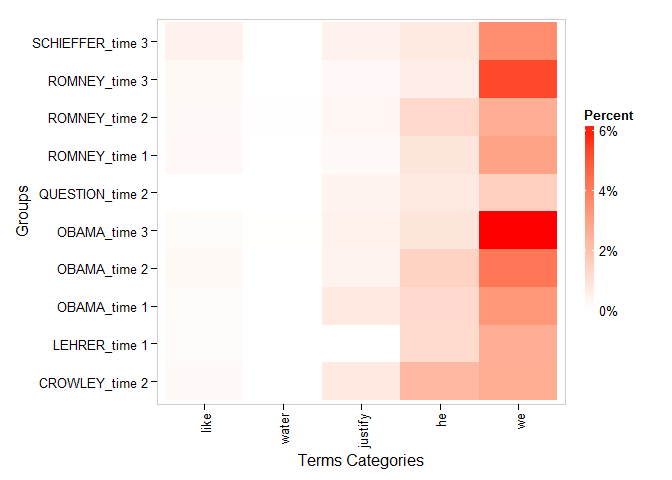
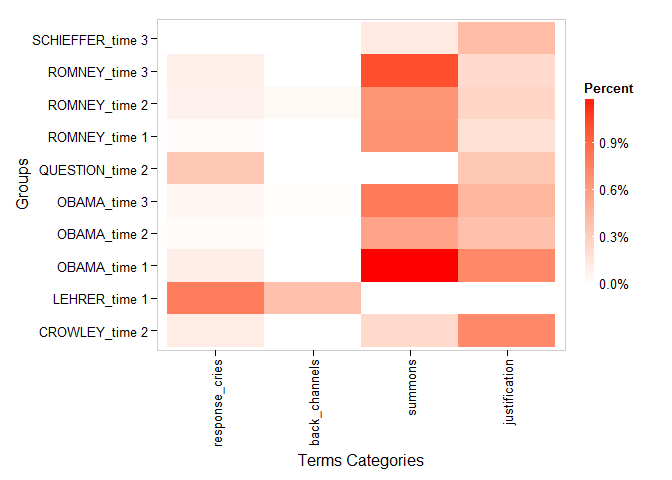
format change to readme

diff --git a/README.md b/README.md
@@ -29,8 +29,8 @@ Table of Contents
 -   [Installation](#installation)
 -   [Contact](#contact)
     -   [Examples](#examples)
-        -   [Print Method](#print-method)
-        -   [Plot Method](#plot-method)
+        -   [Printing](#printing)
+        -   [Plotting](#plotting)
     -   [Building an Expert Rules, Regex Classifier Model](#building-an-expert-rules-regex-classifier-model)
         -   [Load the Tools/Data](#load-the-toolsdata)
         -   [View Most Used Words](#view-most-used-words)
@@ -79,7 +79,10 @@ The following examples demonstrate some of the functionality of
         justification = "because"
     )
 
-    with(presidential_debates_2012, term_count(dialogue, list(person, time), discoure_markers))
+    markers <- with(presidential_debates_2012, 
+        term_count(dialogue, list(person, time), discoure_markers)
+    )
+    markers
 
     ## Coverage: 100% 
     ## Source: local data frame [10 x 7]
@@ -98,46 +101,47 @@ The following examples demonstrate some of the functionality of
     ## 10 SCHIEFFER time 3    1445              0             0   2(.14%)
     ## Variables not shown: justification (chr)
 
-### Print Method
+### Printing
 
     print(markers, pretty = FALSE)
 
     ## Coverage: 100% 
-    ## Source: local data frame [10 x 8]
+    ## Source: local data frame [10 x 7]
     ## 
-    ##       person   time n.words  like water justify    he    we
-    ##       (fctr) (fctr)   (int) (int) (int)   (int) (int) (int)
-    ## 1      OBAMA time 1    3599     5     0      26    43   120
-    ## 2      OBAMA time 2    7477    16     0      29   109   318
-    ## 3      OBAMA time 3    7243    10     1      33    59   451
-    ## 4     ROMNEY time 1    4085     9     0       8    34   121
-    ## 5     ROMNEY time 2    7536    12     4      20    93   199
-    ## 6     ROMNEY time 3    8303    18     0      19    46   447
-    ## 7    CROWLEY time 2    1672     3     0      12    38    44
-    ## 8     LEHRER time 1     765     1     0       0     9    20
-    ## 9   QUESTION time 2     583     0     0       2     4     9
-    ## 10 SCHIEFFER time 3    1445     6     0       6    10    52
+    ##       person   time n.words response_cries back_channels summons
+    ##       (fctr) (fctr)   (int)          (int)         (int)   (int)
+    ## 1      OBAMA time 1    3599              4             0      43
+    ## 2      OBAMA time 2    7477              2             0      42
+    ## 3      OBAMA time 3    7243              4             1      58
+    ## 4     ROMNEY time 1    4085              1             0      27
+    ## 5     ROMNEY time 2    7536              6             3      49
+    ## 6     ROMNEY time 3    8303              8             0      84
+    ## 7    CROWLEY time 2    1672              2             0       4
+    ## 8     LEHRER time 1     765              6             3       0
+    ## 9   QUESTION time 2     583              2             0       0
+    ## 10 SCHIEFFER time 3    1445              0             0       2
+    ## Variables not shown: justification (int)
 
     print(markers, zero.replace = "_")
 
     ## Coverage: 100% 
-    ## Source: local data frame [10 x 8]
+    ## Source: local data frame [10 x 7]
     ## 
-    ##       person   time n.words     like   water  justify         he
-    ##       (fctr) (fctr)   (int)    (chr)   (chr)    (chr)      (chr)
-    ## 1      OBAMA time 1    3599  5(.14%)       _ 26(.72%)  43(1.19%)
-    ## 2      OBAMA time 2    7477 16(.21%)       _ 29(.39%) 109(1.46%)
-    ## 3      OBAMA time 3    7243 10(.14%) 1(.01%) 33(.46%)   59(.81%)
-    ## 4     ROMNEY time 1    4085  9(.22%)       _  8(.20%)   34(.83%)
-    ## 5     ROMNEY time 2    7536 12(.16%) 4(.05%) 20(.27%)  93(1.23%)
-    ## 6     ROMNEY time 3    8303 18(.22%)       _ 19(.23%)   46(.55%)
-    ## 7    CROWLEY time 2    1672  3(.18%)       _ 12(.72%)  38(2.27%)
-    ## 8     LEHRER time 1     765  1(.13%)       _        _   9(1.18%)
-    ## 9   QUESTION time 2     583        _       _  2(.34%)    4(.69%)
-    ## 10 SCHIEFFER time 3    1445  6(.42%)       _  6(.42%)   10(.69%)
-    ## Variables not shown: we (chr)
+    ##       person   time n.words response_cries back_channels   summons
+    ##       (fctr) (fctr)   (int)          (chr)         (chr)     (chr)
+    ## 1      OBAMA time 1    3599        4(.11%)             _ 43(1.19%)
+    ## 2      OBAMA time 2    7477        2(.03%)             _  42(.56%)
+    ## 3      OBAMA time 3    7243        4(.06%)       1(.01%)  58(.80%)
+    ## 4     ROMNEY time 1    4085        1(.02%)             _  27(.66%)
+    ## 5     ROMNEY time 2    7536        6(.08%)       3(.04%)  49(.65%)
+    ## 6     ROMNEY time 3    8303        8(.10%)             _ 84(1.01%)
+    ## 7    CROWLEY time 2    1672        2(.12%)             _   4(.24%)
+    ## 8     LEHRER time 1     765        6(.78%)       3(.39%)         _
+    ## 9   QUESTION time 2     583        2(.34%)             _         _
+    ## 10 SCHIEFFER time 3    1445              _             _   2(.14%)
+    ## Variables not shown: justification (chr)
 
-### Plot Method
+### Plotting
 
     plot(markers)
 
